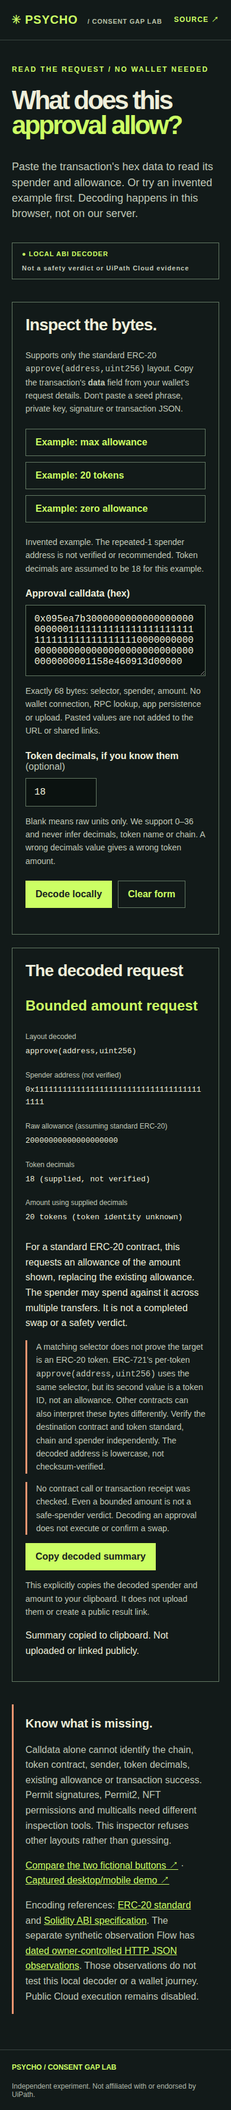
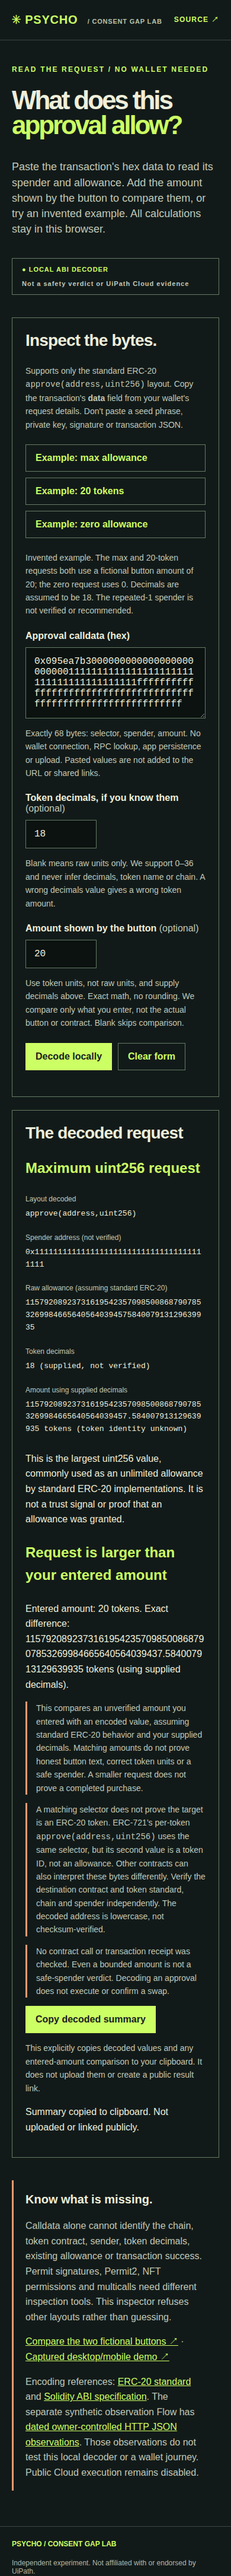
Publish verified workspace 3efe947a630420e31dea0514d0b2543dce0c45d5

diff --git a/public/inspect.html b/public/inspect.html
@@ -6,14 +6,14 @@
 <main class="inspector">
 <p class="eyebrow">READ THE REQUEST / NO WALLET NEEDED</p>
 <h1>What does this <em>approval allow?</em></h1>
-<p class="dek">Paste the transaction's hex data to read its spender and allowance. Or try an invented example first. Decoding happens in this browser, not on our server.</p>
+<p class="dek">Paste the transaction's hex data to read its spender and allowance. Add the amount shown by the button to compare them, or try an invented example. All calculations stay in this browser.</p>
 <div class="status">● LOCAL ABI DECODER <span>Not a safety verdict or UiPath Cloud evidence</span></div>
 <div class="inspect-grid">
 <section class="input-panel" aria-labelledby="input-title">
 <h2 id="input-title">Inspect the bytes.</h2>
 <p class="hint">Supports only the standard ERC-20 <code>approve(address,uint256)</code> layout. Copy the transaction's <strong>data</strong> field from your wallet's request details. Don't paste a seed phrase, private key, signature or transaction JSON.</p>
 <div class="example-buttons" role="group" aria-label="Invented approval examples"><button type="button" data-example="maximum">Example: max allowance</button><button type="button" data-example="bounded">Example: 20 tokens</button><button type="button" data-example="zero">Example: zero allowance</button></div>
-<p id="example-note" class="hint" hidden>Invented example. The repeated-1 spender address is not verified or recommended. Token decimals are assumed to be 18 for this example.</p>
+<p id="example-note" class="hint" hidden>Invented example. The max and 20-token requests both use a fictional button amount of 20; the zero request uses 0. Decimals are assumed to be 18. The repeated-1 spender is not verified or recommended.</p>
 <form id="inspect-form" autocomplete="off">
 <label for="calldata">Approval calldata (hex)</label>
 <textarea id="calldata" rows="5" maxlength="512" spellcheck="false" autocapitalize="off" autocomplete="off" aria-describedby="data-help decode-error" placeholder="0x095ea7b3…"></textarea>
@@ -21,6 +21,9 @@
 <label for="decimals">Token decimals, if you know them <span>(optional)</span></label>
 <input id="decimals" type="text" inputmode="numeric" maxlength="3" spellcheck="false" aria-describedby="decimal-help decode-error">
 <p id="decimal-help" class="hint">Blank means raw units only. We support 0–36 and never infer decimals, token name or chain. A wrong decimals value gives a wrong token amount.</p>
+<label for="claimed-amount">Amount shown by the button <span>(optional)</span></label>
+<input id="claimed-amount" type="text" inputmode="decimal" maxlength="116" spellcheck="false" autocomplete="off" aria-describedby="amount-help decode-error" placeholder="For example, 20 or 0.5">
+<p id="amount-help" class="hint">Use token units, not raw units, and supply decimals above. Exact math, no rounding. We compare only what you enter, not the actual button or contract. Blank skips comparison.</p>
 <div class="inspect-actions"><button type="submit">Decode locally</button><button type="button" id="clear-data" class="plain">Clear form</button></div>
 <p id="decode-error" role="alert" hidden></p>
 </form>
@@ -33,10 +36,11 @@
 <p id="allowance-label" class="allowance-label"></p>
 <dl id="approval-details"></dl>
 <p id="allowance-meaning"></p>
+<div id="amount-comparison" hidden><p id="comparison-label" class="allowance-label"></p><p id="comparison-detail"></p><p class="warning">This compares an unverified amount you entered with an encoded value, assuming standard ERC-20 behavior and your supplied decimals. Matching amounts do not prove honest button text, correct token units or a safe spender. A smaller request does not prove a completed purchase.</p></div>
 <p class="warning">A matching selector does not prove the target is an ERC-20 token. ERC-721’s per-token <code>approve(address,uint256)</code> uses the same selector, but its second value is a token ID, not an allowance. Other contracts can also interpret these bytes differently. Verify the destination contract and token standard, chain and spender independently. The decoded address is lowercase, not checksum-verified.</p>
 <p class="warning">No contract call or transaction receipt was checked. Even a bounded amount is not a safe-spender verdict. Decoding an approval does not execute or confirm a swap.</p>
 <button type="button" id="copy-summary">Copy decoded summary</button>
-<p class="hint">This explicitly copies the decoded spender and amount to your clipboard. It does not upload them or create a public result link.</p>
+<p class="hint">This explicitly copies decoded values and any entered-amount comparison to your clipboard. It does not upload them or create a public result link.</p>
 <p id="copy-status" role="status" aria-live="polite"></p>
 </div>
 </section>

diff --git a/public/inspect.js b/public/inspect.js
@@ -1,6 +1,9 @@
 import { decodeApproval, approvalExamples } from './approval.js';
 const $ = selector => document.querySelector(selector);
 let decoded = null;
+function comparisonText(comparison) {
+  return comparison.relation === 'equal' ? 'Matches the amount you entered' : 'Request is ' + comparison.relation + ' than your entered amount';
+}
 const meanings = {
   maximum:{label:'Maximum uint256 request', text:'This is the largest uint256 value, commonly used as an unlimited allowance by standard ERC-20 implementations. It is not a trust signal or proof that an allowance was granted.'},
   bounded:{label:'Bounded amount request', text:'For a standard ERC-20 contract, this requests an allowance of the amount shown, replacing the existing allowance. The spender may spend against it across multiple transfers. It is not a completed swap or a safety verdict.'},
@@ -13,18 +16,22 @@ function resetResult() {
   $('#approval-details').replaceChildren();
   $('#allowance-label').textContent = '';
   $('#allowance-meaning').textContent = '';
+  $('#amount-comparison').hidden = true;
+  $('#comparison-label').textContent = '';
+  $('#comparison-detail').textContent = '';
   $('#copy-status').textContent = '';
   $('#decode-error').hidden = true;
   $('#decode-error').textContent = '';
-  for (const field of ['calldata','decimals']) $('#' + field).removeAttribute('aria-invalid');
+  for (const field of ['calldata','decimals','claimed-amount']) $('#' + field).removeAttribute('aria-invalid');
 }
-for (const field of ['calldata','decimals']) {
+for (const field of ['calldata','decimals','claimed-amount']) {
   $('#' + field).addEventListener('input', () => { resetResult(); $('#example-note').hidden = true; });
 }
 document.querySelectorAll('[data-example]').forEach(button => button.addEventListener('click', () => {
   resetResult();
   $('#calldata').value = approvalExamples[button.dataset.example];
   $('#decimals').value = '18';
+  $('#claimed-amount').value = button.dataset.example === 'zero' ? '0' : '20';
   $('#example-note').hidden = false;
   $('#calldata').focus();
 }));
@@ -38,7 +45,7 @@ $('#inspect-form').addEventListener('submit', event => {
   event.preventDefault();
   resetResult();
   try {
-    decoded = decodeApproval($('#calldata').value, $('#decimals').value);
+    decoded = decodeApproval($('#calldata').value, $('#decimals').value, $('#claimed-amount').value);
   } catch (error) {
     $('#decode-error').textContent = error.message;
     $('#decode-error').hidden = false;
@@ -63,6 +70,11 @@ $('#inspect-form').addEventListener('submit', event => {
   }
   $('#allowance-label').textContent = meanings[decoded.category].label;
   $('#allowance-meaning').textContent = meanings[decoded.category].text;
+  if (decoded.comparison) {
+    $('#comparison-label').textContent = comparisonText(decoded.comparison);
+    $('#comparison-detail').textContent = 'Entered amount: ' + decoded.comparison.enteredAmount + ' tokens. Exact difference: ' + decoded.comparison.differenceAmount + ' tokens (using supplied decimals).';
+    $('#amount-comparison').hidden = false;
+  }
   $('#empty-result').hidden = true;
   $('#approval-result').hidden = false;
   $('#approval-title').focus();
@@ -78,6 +90,11 @@ $('#copy-summary').addEventListener('click', async () => {
     'Request type: ' + meanings[result.category].label,
     'Decimals: ' + (result.decimals === null ? 'unknown' : result.decimals + ' (supplied, not verified)'),
     ...(result.displayAmount === null ? [] : ['Amount using supplied decimals: ' + result.displayAmount + ' tokens (identity unknown)']),
+    ...(result.comparison ? [
+      'Button amount entered by visitor (not verified): ' + result.comparison.enteredAmount + ' tokens',
+      comparisonText(result.comparison) + '. Exact difference: ' + result.comparison.differenceAmount + ' tokens (using supplied decimals).',
+      'Comparison is numerical only. Button text, decimals and standard ERC-20 behavior are not verified. A match or smaller request is not a safety verdict or completed purchase.'
+    ] : []),
     'Token standard unverified: ERC-721 uses the same selector but its second value is a token ID, not an allowance.',
     'Contract behavior, chain, token, live allowance and receipt not checked. No transaction executed.',
     'https://lab.psychoagent.com/inspect.html'

diff --git a/tests/approval-comparison.test.js b/tests/approval-comparison.test.js
@@ -1,0 +1,59 @@
+import test from 'node:test';
+import assert from 'node:assert/strict';
+import { decodeApproval, approvalExamples, MAX_UINT256, ApprovalInputError } from '../public/approval.js';
+const encode = n => '0x095ea7b3' + '0'.repeat(24) + '1'.repeat(40) + n.toString(16).padStart(64, '0');
+
+test('optional button comparison preserves decoder-only behavior', () => {
+  for (const blank of ['', ' \n ']) {
+    assert.deepEqual(decodeApproval(approvalExamples.bounded, '', blank), decodeApproval(approvalExamples.bounded));
+    assert.deepEqual(decodeApproval(approvalExamples.bounded, '18', blank), decodeApproval(approvalExamples.bounded, '18'));
+  }
+});
+test('entered amounts yield exact larger, equal and smaller differences without floating point', () => {
+  const compare = amount => decodeApproval(approvalExamples.bounded, '18', amount).comparison;
+  assert.deepEqual(compare(' 20.000000000000000000 '), {
+    relation:'equal', enteredRaw:'20000000000000000000', enteredAmount:'20', differenceRaw:'0', differenceAmount:'0'
+  });
+  assert.equal(compare('19.999999999999999999').relation, 'larger');
+  assert.equal(compare('19.999999999999999999').differenceRaw, '1');
+  assert.equal(compare('19.999999999999999999').differenceAmount, '0.000000000000000001');
+  assert.equal(compare('20.000000000000000001').relation, 'smaller');
+  assert.equal(compare('20.000000000000000001').differenceRaw, '1');
+  assert.equal(compare('21').differenceAmount, '1');
+  assert.equal(compare('0').differenceAmount, '20');
+});
+test('zero and maximum amounts compare as integers, including above Number precision', () => {
+  assert.equal(decodeApproval(approvalExamples.zero, '18', '0').comparison.relation, 'equal');
+  assert.equal(decodeApproval(approvalExamples.zero, '18', '20').comparison.relation, 'smaller');
+  assert.equal(decodeApproval(approvalExamples.maximum, '0', MAX_UINT256).comparison.relation, 'equal');
+  const max = decodeApproval(approvalExamples.maximum, '18', '20').comparison;
+  assert.equal(max.relation, 'larger');
+  assert.equal(max.differenceRaw, (BigInt(MAX_UINT256) - 20n * 10n ** 18n).toString());
+  assert.equal(decodeApproval(encode(2n ** 53n + 1n), '0', (2n ** 53n).toString()).comparison.differenceRaw, '1');
+});
+test('comparisons reverse supplied decimal formatting across supported precision and uint256 extremes', () => {
+  for (const raw of [0n, 1n, 2n ** 53n + 1n, 2n ** 255n + 99n, BigInt(MAX_UINT256)]) {
+    for (const decimals of [0,1,6,18,36]) {
+      const text = decodeApproval(encode(raw), String(decimals)).displayAmount;
+      const result = decodeApproval(encode(raw), String(decimals), text).comparison;
+      assert.equal(result.relation, 'equal');
+      assert.equal(result.enteredRaw, raw.toString());
+      assert.equal(result.differenceRaw, '0');
+    }
+  }
+});
+test('comparison requires supplied decimals rather than inferring token metadata', () => {
+  assert.throws(() => decodeApproval(approvalExamples.bounded, '', '20'), error => error instanceof ApprovalInputError && error.field === 'decimals');
+});
+test('invalid button amounts fail closed and identify their own field', () => {
+  for (const invalid of [null, {}, [], 20, '-1', '+1', '1e1', '1,000', 'NaN', 'Infinity', '.5', '1.', '01', '<script>', '1'.repeat(117), (BigInt(MAX_UINT256) + 1n).toString()]) {
+    assert.throws(() => decodeApproval(approvalExamples.bounded, '0', invalid), error => error instanceof ApprovalInputError && error.field === 'claimed-amount');
+  }
+  assert.throws(() => decodeApproval(approvalExamples.bounded, '18', MAX_UINT256), /exceeds uint256/);
+});
+test('too much fractional precision is refused instead of rounding, even trailing zeros', () => {
+  for (const [decimals, amount] of [['0','1.0'], ['6','0.0000001'], ['6','1.0000000'], ['18','0.0000000000000000001']]) {
+    assert.throws(() => decodeApproval(approvalExamples.bounded, decimals, amount), error => error instanceof ApprovalInputError && error.field === 'claimed-amount' && /not be rounded/.test(error.message));
+  }
+  assert.equal(decodeApproval(encode(1n), '36', '0.' + '0'.repeat(35) + '1').comparison.relation, 'equal');
+});

diff --git a/public/approval.js b/public/approval.js
@@ -5,7 +5,44 @@ export class ApprovalInputError extends Error {
   constructor(message, field = 'calldata') { super(message); this.field = field; }
 }
 
-export function decodeApproval(input, decimalInput = '') {
+function formatAmount(raw, decimals) {
+  if (decimals === 0) return raw;
+  const digits = raw.padStart(decimals + 1, '0');
+  const fraction = digits.slice(-decimals).replace(/0+$/, '');
+  return digits.slice(0, -decimals) + (fraction ? '.' + fraction : '');
+}
+
+// Button text is supplied by the visitor, never discovered or authenticated.
+function compareAmount(rawAllowance, decimals, input) {
+  if (typeof input !== 'string' || input.length > 116) {
+    throw new ApprovalInputError('Enter a plain non-negative token amount, or leave it blank. Scientific notation and commas are not supported.', 'claimed-amount');
+  }
+  const amount = input.trim();
+  if (amount === '') return null;
+  if (decimals === null) {
+    throw new ApprovalInputError('Supply token decimals to compare a token amount. No metadata is looked up.', 'decimals');
+  }
+  if (!/^(0|[1-9][0-9]*)(\.[0-9]+)?$/.test(amount)) {
+    throw new ApprovalInputError('Use a plain non-negative token amount such as 20 or 0.5, without commas, signs or scientific notation.', 'claimed-amount');
+  }
+  const [whole, fraction = ''] = amount.split('.');
+  if (fraction.length > decimals) {
+    throw new ApprovalInputError('The amount has more fractional digits than the supplied token decimals. It will not be rounded.', 'claimed-amount');
+  }
+  const claimed = BigInt(whole + fraction.padEnd(decimals, '0'));
+  if (claimed > BigInt(MAX_UINT256)) {
+    throw new ApprovalInputError('The entered amount exceeds uint256 using these decimals. Check the amount and decimals.', 'claimed-amount');
+  }
+  const requested = BigInt(rawAllowance);
+  const difference = requested >= claimed ? requested - claimed : claimed - requested;
+  return {
+    relation:requested > claimed ? 'larger' : requested < claimed ? 'smaller' : 'equal',
+    enteredRaw:claimed.toString(), enteredAmount:formatAmount(claimed.toString(), decimals),
+    differenceRaw:difference.toString(), differenceAmount:formatAmount(difference.toString(), decimals)
+  };
+}
+
+export function decodeApproval(input, decimalInput = '', amountInput = '') {
   if (typeof input !== 'string' || input.length > 512) {
     throw new ApprovalInputError('Paste only the 68-byte approval calldata, starting with 0x.');
   }
@@ -29,20 +66,14 @@ export function decodeApproval(input, decimalInput = '') {
   }
   const rawAllowance = BigInt('0x' + data.slice(74)).toString();
   const decimals = decimalText === '' ? null : Number(decimalText);
-  let displayAmount = null;
-  if (decimals !== null) {
-    if (decimals === 0) displayAmount = rawAllowance;
-    else {
-      const digits = rawAllowance.padStart(decimals + 1, '0');
-      const fraction = digits.slice(-decimals).replace(/0+$/, '');
-      displayAmount = digits.slice(0, -decimals) + (fraction ? '.' + fraction : '');
-    }
-  }
+  const displayAmount = decimals === null ? null : formatAmount(rawAllowance, decimals);
+  const comparison = compareAmount(rawAllowance, decimals, amountInput);
   return {
     method:'approve(address,uint256)',
     spender:'0x' + addressWord.slice(24).toLowerCase(),
     rawAllowance, decimals, displayAmount,
-    category:rawAllowance === MAX_UINT256 ? 'maximum' : rawAllowance === '0' ? 'zero' : 'bounded'
+    category:rawAllowance === MAX_UINT256 ? 'maximum' : rawAllowance === '0' ? 'zero' : 'bounded',
+    ...(comparison ? {comparison} : {})
   };
 }
 

diff --git a/public/demo.html b/public/demo.html
@@ -9,9 +9,9 @@
 <h2>Dated owner observations / publication captured 2026-10-06</h2><p>Explore the published, deliberately redacted outputs of two owner-controlled UiPath HTTP JSON runs. These are screenshots of the evidence page, not UiPath tenant traces or wallet captures. <a href="/evidence.html">Read the observations and compare fixture digests locally ↗</a></p>
 <a href="/demo/evidence-1280.png"><img src="/demo/evidence-1280.png" alt="Desktop capture of the dated unlimited owner observation, its historical Flow revision and local fixture-digest match with narrow-proof caveats." width="1280" loading="lazy"></a>
 <a href="/demo/evidence-390.png"><img src="/demo/evidence-390.png" alt="Mobile capture of the same redacted owner observation and local digest comparison stacked vertically." width="390" loading="lazy"></a>
-<h2>Local approval decoding / 2026-10-07</h2><p>The invented 20-token request is decoded in-browser into its spender and raw allowance. Decimals are supplied as 18 for this synthetic example, not looked up. No wallet, RPC or Cloud run. <a href="/inspect.html">Try your own local request or an example ↗</a></p>
-<a href="/demo/inspect-1280.png"><img src="/demo/inspect-1280.png" alt="Desktop screenshot of the local approval inspector decoding an invented 20-token request, with unverified spender and supplied-decimals caveats." width="1280" loading="lazy"></a>
-<a href="/demo/inspect-390.png"><img src="/demo/inspect-390.png" alt="Mobile screenshot of the same invented approval decoding, with input and output stacked vertically." width="390" loading="lazy"></a>
+<h2>Entered amount versus approval request / 2026-10-07</h2><p>The invented maximum-allowance request is compared locally against an entered 20-token button amount. The difference is exact, using supplied 18 decimals, not looked-up token metadata. This does not authenticate button copy or prove wallet safety. No wallet, RPC or Cloud run. <a href="/inspect.html">Compare your own local request or try an example ↗</a></p>
+<a href="/demo/inspect-1280.png"><img src="/demo/inspect-1280.png" alt="Desktop capture of a maximum-uint256 approval request compared against an invented 20-token button amount, showing a larger request and exact difference with supplied-decimal caveats." width="1280" loading="lazy"></a>
+<a href="/demo/inspect-390.png"><img src="/demo/inspect-390.png" alt="Mobile capture of the same maximum-versus-20 local amount comparison, with input and output stacked vertically." width="390" loading="lazy"></a>
 <h2>Side-by-side permissions / 2026-10-06</h2><p>The orange fields show the allowance difference. Both approvals are separate from the swap. <a href="/?view=compare#comparison">Explore and copy a comparison link ↗</a></p>
 <a href="/demo/comparison-1280.png"><img src="/demo/comparison-1280.png" alt="Desktop capture of the two synthetic approval requests: identical buttons, unlimited versus exact allowance, neither executing a swap." width="1280" loading="lazy"></a>
 <a href="/demo/comparison-390.png"><img src="/demo/comparison-390.png" alt="Mobile capture of the same permission comparison with vertically stacked cards and a wallet inspection checklist." width="390" loading="lazy"></a>

diff --git a/PRODUCT.md b/PRODUCT.md
@@ -6,4 +6,4 @@ The useful mechanism is comparison of button language to permission scope, not a
 
 Rejected for now: generic crypto browser journey runner (Synpress and Well Tested already cover much of testing and evidence); autonomous bug-fixing agent (Gauntlet, SpectreAI and FlakeWarden cover adjacent terrain, with too much uncontrolled surface); agent-verification scoreboard (AgentTrial already publishes sealed trials and receipts). The selected consent-specific question has a clearer public interaction and lower risk. At selection the UiPath component still needed a real spike; the later two-input HTTP JSON proof meets that narrow requirement, not a browser-journey claim.
 
-Scope: synthetic teaching fixtures and optional visitor-pasted calldata decoded entirely in the browser; no account credentials, transactions or visitor-triggered Cloud runs. The 2026-10-06 local inspector extends the lesson to a visitor's own request without turning it into a wallet audit. It only decodes the canonical ERC-20 approval layout, shows exact raw units plus explicitly supplied decimals, and refuses unsupported layouts. Standard ABI decoding is established functionality, not our novelty claim. This gives the comparison an immediate practical follow-through; the separately published UiPath proof is limited to the earlier owned JSON observations. No pasted bytes are uploaded, stored by the app or put into result URLs. Suggested cases via GitHub issues are editorial feedback, never a work queue. No UiPath endorsement. No guarantee a simulated finding reflects real application behavior. If a real run is later published, show timestamp, source revision, redaction method and uncertainty; do not publish raw tenant traces. Revisit the concept if real visitors do not find the comparison useful.
+Scope: synthetic teaching fixtures and optional visitor-pasted calldata decoded entirely in the browser; no account credentials, transactions or visitor-triggered Cloud runs. The optional 2026-10-07 button-amount field compares a visitor's unverified amount to the decoded request with exact integer differences; it does not authenticate button text, infer decimals or declare a match safe. The 2026-10-06 local inspector extends the lesson to a visitor's own request without turning it into a wallet audit. It only decodes the canonical ERC-20 approval layout, shows exact raw units plus explicitly supplied decimals, and refuses unsupported layouts. Standard ABI decoding is established functionality, not our novelty claim. This gives the comparison an immediate practical follow-through; the separately published UiPath proof is limited to the earlier owned JSON observations. No pasted bytes are uploaded, stored by the app or put into result URLs. Suggested cases via GitHub issues are editorial feedback, never a work queue. No UiPath endorsement. No guarantee a simulated finding reflects real application behavior. If a real run is later published, show timestamp, source revision, redaction method and uncertainty; do not publish raw tenant traces. Revisit the concept if real visitors do not find the comparison useful.

diff --git a/README.md b/README.md
@@ -18,6 +18,10 @@ No wallet, RPC, Cloud job, upload, app persistence or calldata-bearing URL. CSP 
 
 `node tests/inspector-browser.mjs` tests desktop/mobile decoding, precision, refusals, stale-result clearing, keyboard/error recovery, clipboard success/denial and no interaction requests. `CAPTURE_INSPECT_DEMO=1 node tests/inspector-browser.mjs` captures only the invented 20-token example; never use visitor data for public screenshots. Encoding references: [ERC-20](https://eips.ethereum.org/EIPS/eip-20), [ERC-721's identical approval signature](https://eips.ethereum.org/EIPS/eip-721) and [Solidity ABI](https://docs.soliditylang.org/en/latest/abi-spec.html). The `0x095ea7b3` selector is the first four bytes of Keccak-256 of `approve(address,uint256)`.
 
+Optionally enter the amount shown by the button plus token decimals you supply. The inspector compares it to the decoded request and shows **larger / equal / smaller** with an exact difference. It uses integer math, including tiny fractions and full uint256 values, and refuses precision loss, signs, exponents, commas and overflow. A blank amount leaves the original decoder unchanged. Button text and decimals are not authenticated; matching or smaller values are **not** a safety verdict, evidence of honesty or a completed purchase. The invented maximum example compares a max-uint256 request against an entered 20-token amount; the zero example uses 0.
+
+`node tests/approval-comparison-browser.mjs` covers the comparison at desktop/mobile widths, precision/overflow refusal, stale-state clearing, keyboard recovery, clipboard caveats, no network/persistence/URLs and JS-disabled privacy. `CAPTURE_AMOUNT_DEMO=1 node tests/approval-comparison-browser.mjs` updates the public inspector captures using only invented maximum-vs-20 data. The older `CAPTURE_INSPECT_DEMO` capture mode still produces the bounded example; do not use it to overwrite the gallery without also updating its description. Neither local comparison nor browser test is UiPath Cloud evidence.
+
 ## Dated owner observations
 
 `/evidence.html` displays both allowlisted owner-run outputs and compares each published SHA-256 with the current local teaching fixture. Switch inputs or share `/evidence.html?case=bounded`. This loads a static, deliberately redacted JSON publication once; input switching and digest calculation stay in the browser. No visitor-triggered jobs. A digest match identifies teaching bytes, not an authenticated job, wallet safety verdict or refreshed Cloud test. Changed bytes produce a warning. Failed HTTP/schema/JSON loading fails visibly and offers retry; the raw artifact remains linked for JS-disabled visitors.

diff --git a/DESIGN.md b/DESIGN.md
@@ -1,5 +1,7 @@
 # Design notes
 
+The 2026-10-07 optional button-amount comparison connects visitor-provided calldata to the consent-gap question. Entered token amounts and supplied decimals become raw units with integer math; output says larger, equal or smaller and gives the exact absolute difference. No floating point, inferred decimals, rounding or authenticated button-text claim. Invalid decimal grammar, precision and uint256 overflow fail closed. Blank amount preserves decoder-only behavior. Examples invent a 20-token button for maximum/bounded requests and 0 for zero. Equal or smaller values do not mean safe, honest, ERC-20 or purchased. Any input edit clears comparison and copy state. This local feature is not covered by the historical UiPath HTTP/JSON observations.
+
 Audience: a wallet user asked to approve a token, plus a UiPath builder inspecting a reproducible test fixture. Hero sets the question; neutral specimen A/B buttons switch between fictional approvals without revealing scope before the prediction; the visitor commits a prediction, reads scope and caveat, then copies a URL carrying case and answer. There is no wallet connect or submit-to-server path. Selection and reveal remain usable without Cloud runs.
 
 Visual vocabulary: dark laboratory, acid-green cues, high-contrast specimen panels. Accessible button controls, announced result, responsive single-column mobile layout. No pictorial claim of an actual wallet screenshot. Static Node server serves only local files; CSP restricts resources. Invalid request targets receive a non-echoing HTTP 400 instead of an uncaught URL-parsing exception. An isolated-process regression sends raw requests and checks that health, inspector privacy policy and synthetic fixture reads still work afterward. /healthz is the deployment readiness check, not a proof of journey functionality.

diff --git a/NOVELTY.md b/NOVELTY.md
@@ -15,4 +15,6 @@ Primary references to recheck before implementing the UiPath journey: [AgentHack
 
 2026-10-06 proof update: two distinct historical owner runs now have verified HTTP JSON outputs at tested Flow revision d85a1ddc7bb9cd1cc6a13b4d5db95474228f1fe9. The public evidence explorer exposes observed times, redacted output, source and local fixture-digest comparison. It does not claim browser automation, wallet auditing, cryptographically authenticated Cloud receipts or proof of newer local features.
 
+2026-10-07 extension: optional visitor-entered button amounts are compared to locally decoded requests with exact integer differences. This is established allowance arithmetic, not new ABI decoding or authenticated button inspection. The contribution is closing the teaching-to-own-request loop while keeping amounts private and explicitly unverified. Historical UiPath observations do not prove this local feature.
+
 Current delivery implements the synthetic interaction, local decoder and narrow dated UiPath JSON observation evidence. A generic runner with screenshots would not differentiate it. Consult current source again when implementing a real opt-in UI journey; descriptions can change.

diff --git a/ASSET-LICENSES.md b/ASSET-LICENSES.md
@@ -1,2 +1,2 @@
 # Assets
-No external images, fonts or third-party visual assets are bundled. The PNGs in public/demo/ are original Chromium screenshots of our own synthetic teaching UI, captured by tests/browser.mjs, tests/inspector-browser.mjs and tests/evidence-browser.mjs. Evidence-page captures show only deliberately redacted published observations, not raw UiPath tenant traces. Interface graphics and code are original and licensed under MIT (see LICENSE). UiPath name and trademarks belong to their respective owners; no endorsement is claimed.
+No external images, fonts or third-party visual assets are bundled. The PNGs in public/demo/ are original Chromium screenshots of our own synthetic teaching UI, captured by tests/browser.mjs, tests/inspector-browser.mjs, tests/approval-comparison-browser.mjs and tests/evidence-browser.mjs. Evidence-page captures show only deliberately redacted published observations, not raw UiPath tenant traces. Interface graphics and code are original and licensed under MIT (see LICENSE). UiPath name and trademarks belong to their respective owners; no endorsement is claimed.
